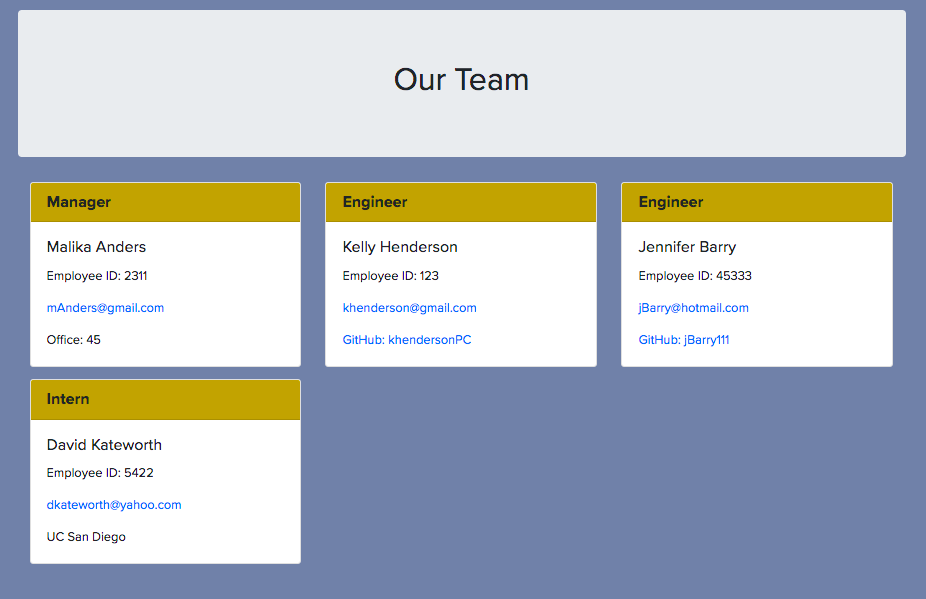
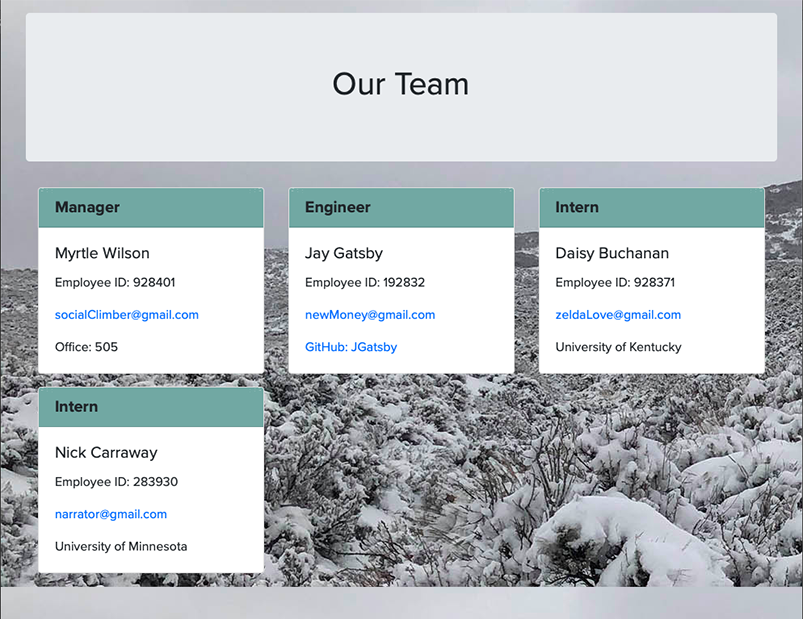
updated look

diff --git a/dist/index.html b/dist/index.html
@@ -6,10 +6,11 @@
 	    <link rel="stylesheet" href="https://maxcdn.bootstrapcdn.com/bootstrap/4.0.0/css/bootstrap.min.css">
         <link rel="stylesheet" href="https://use.typekit.net/iuk5sne.css">
         </head>
-    <body style="background-color: #7283A6;font-family: proxima-nova, sans-serif;">
-        <div class="container">
+    <body style="background-image:url('../images/snow_web.jpg');font-family: proxima-nova, sans-serif;">
 
-	        <div class="jumbotron mt-3">
+    <div class="container" >
+
+	        <div class="jumbotron mt-3" style="background-image:url('./images/snow_web.jpg'); background-size: cover">
 		        <h1 class="text-center">Our Team</h1>
 	        </div>
         <div class="container">
@@ -18,52 +19,52 @@
  
     <div class= "col-sm-4"> 
     <div class="card mb-3">
-    <h5 class="card-header" style="background-color:#BFA004;font-family: proxima-nova, sans-serif;
+    <h5 class="card-header" style="background-color:#7CA6A2;font-family: proxima-nova, sans-serif;
     font-weight: 700;
     font-style: normal;">Manager</h5>
     <div class="card-body">
-    <h5 class="card-title">Malika Anders</h5>
-    <p class="card-text">Employee ID: 2311</p>
-    <p class="card-text"><a href="mailto:mAnders@gmail.com">mAnders@gmail.com</a></p><p class="card-text">Office: 45</p>
+    <h5 class="card-title">Myrtle Wilson</h5>
+    <p class="card-text">Employee ID: 928401</p>
+    <p class="card-text"><a href="mailto:socialClimber@gmail.com">socialClimber@gmail.com</a></p><p class="card-text">Office: 505</p>
         </div>
         </div>
         </div>
          
     <div class= "col-sm-4"> 
     <div class="card mb-3">
-    <h5 class="card-header" style="background-color:#BFA004;font-family: proxima-nova, sans-serif;
+    <h5 class="card-header" style="background-color:#7CA6A2;font-family: proxima-nova, sans-serif;
     font-weight: 700;
     font-style: normal;">Engineer</h5>
     <div class="card-body">
-    <h5 class="card-title">Kelly Henderson</h5>
-    <p class="card-text">Employee ID: 123</p>
-    <p class="card-text"><a href="mailto:khenderson@gmail.com">khenderson@gmail.com</a></p><p class="card-text"><a href= "https://github.com/khendersonPC/" target="_blank">GitHub: khendersonPC</a></p>
+    <h5 class="card-title">Jay Gatsby</h5>
+    <p class="card-text">Employee ID: 192832</p>
+    <p class="card-text"><a href="mailto:newMoney@gmail.com">newMoney@gmail.com</a></p><p class="card-text"><a href= "https://github.com/JGatsby/" target="_blank">GitHub: JGatsby</a></p>
         </div>
         </div>
         </div>
          
     <div class= "col-sm-4"> 
     <div class="card mb-3">
-    <h5 class="card-header" style="background-color:#BFA004;font-family: proxima-nova, sans-serif;
-    font-weight: 700;
-    font-style: normal;">Engineer</h5>
-    <div class="card-body">
-    <h5 class="card-title">Jennifer Barry</h5>
-    <p class="card-text">Employee ID: 45333</p>
-    <p class="card-text"><a href="mailto:jBarry@hotmail.com">jBarry@hotmail.com</a></p><p class="card-text"><a href= "https://github.com/jBarry111/" target="_blank">GitHub: jBarry111</a></p>
-        </div>
-        </div>
-        </div>
-         
-    <div class= "col-sm-4"> 
-    <div class="card mb-3">
-    <h5 class="card-header" style="background-color:#BFA004;font-family: proxima-nova, sans-serif;
+    <h5 class="card-header" style="background-color:#7CA6A2;font-family: proxima-nova, sans-serif;
     font-weight: 700;
     font-style: normal;">Intern</h5>
     <div class="card-body">
-    <h5 class="card-title">David Kateworth</h5>
-    <p class="card-text">Employee ID: 5422</p>
-    <p class="card-text"><a href="mailto:dkateworth@yahoo.com">dkateworth@yahoo.com</a></p><p class="card-text">UC San Diego</p>
+    <h5 class="card-title">Daisy Buchanan</h5>
+    <p class="card-text">Employee ID: 928371</p>
+    <p class="card-text"><a href="mailto:zeldaLove@gmail.com">zeldaLove@gmail.com</a></p><p class="card-text">University of Kentucky</p>
+        </div>
+        </div>
+        </div>
+         
+    <div class= "col-sm-4"> 
+    <div class="card mb-3">
+    <h5 class="card-header" style="background-color:#7CA6A2;font-family: proxima-nova, sans-serif;
+    font-weight: 700;
+    font-style: normal;">Intern</h5>
+    <div class="card-body">
+    <h5 class="card-title">Nick Carraway</h5>
+    <p class="card-text">Employee ID: 283930</p>
+    <p class="card-text"><a href="mailto:narrator@gmail.com">narrator@gmail.com</a></p><p class="card-text">University of Minnesota</p>
         </div>
         </div>
         </div>

diff --git a/src/generateHTML.js b/src/generateHTML.js
@@ -1,4 +1,4 @@
-
+//background-color: #7283A6   
 function openHTML() {
     return `
     <!DOCTYPE html>
@@ -8,10 +8,11 @@ function openHTML() {
 	    <link rel="stylesheet" href="https://maxcdn.bootstrapcdn.com/bootstrap/4.0.0/css/bootstrap.min.css">
         <link rel="stylesheet" href="https://use.typekit.net/iuk5sne.css">
         </head>
-    <body style="background-color: #7283A6;font-family: proxima-nova, sans-serif;">
-        <div class="container">
+    <body style="background-image:url('../images/snow_web.jpg');font-family: proxima-nova, sans-serif;">
 
-	        <div class="jumbotron mt-3">
+    <div class="container" >
+
+	        <div class="jumbotron mt-3" style="background-image:url('./images/snow_web.jpg'); background-size: cover">
 		        <h1 class="text-center">Our Team</h1>
 	        </div>
         <div class="container">
@@ -25,7 +26,7 @@ function cardHTML(employee) {
     let pt1 = ` 
     <div class= "col-sm-4"> 
     <div class="card mb-3">
-    <h5 class="card-header" style="background-color:#BFA004;font-family: proxima-nova, sans-serif;
+    <h5 class="card-header" style="background-color:#7CA6A2;font-family: proxima-nova, sans-serif;
     font-weight: 700;
     font-style: normal;">${employee.getRole()}</h5>
     <div class="card-body">
